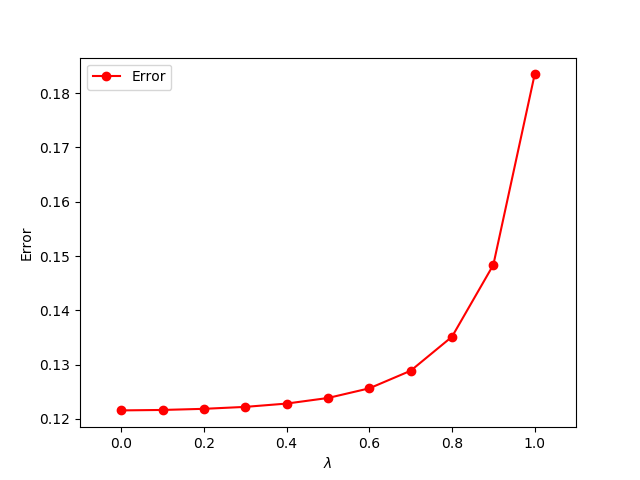
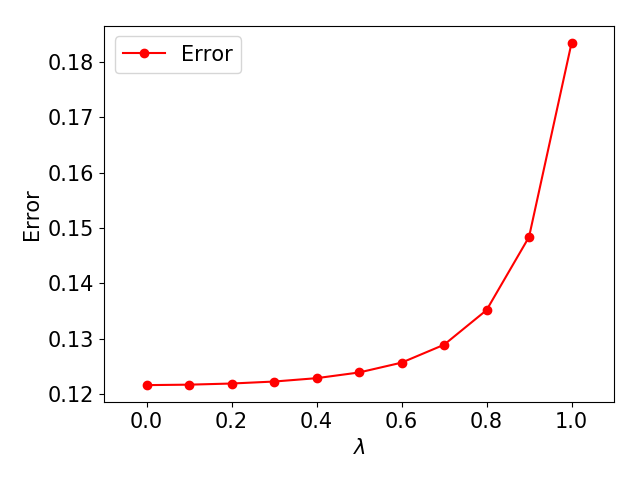
update code

diff --git a/run_p1.py b/run_p1.py
@@ -3,6 +3,11 @@ import numpy as np
 import pandas as pd
 import os
 import matplotlib.pyplot as plt
+from matplotlib import rc
+from matplotlib import rcParams
+rcParams.update({'figure.autolayout': True})
+font = {'size': 15}
+rc('font', **font)
 
 
 #test to run
@@ -13,7 +18,7 @@ def run_tdSimulator(alpha=0.01, decay=0.9995, lamb=0.0, init_w=0.5, maxepisode=1
 
     print tdSimulator.w
     print tdSimulator.rmse
-    #print tdSimulator.std
+    #print tdSimulator.ste
 
     return None
 
@@ -23,7 +28,7 @@ def run_tdAllData(data_dir="data", alpha=0.01, lamb=0.0, init_w=0.5, maxepisode=
     tdData.learn_all_data_repeat(maxepisode=maxepisode, epsilon=epsilon)
     print np.array(tdData.w)
     print tdData.rmse
-    #print tdData.std
+    #print tdData.ste
     return None
 
 def run_tdTrainsetRepeat(data_dir="data", alpha=0.01, lamb=0.0, init_w=0.5, dataset_num=0, maxepisode=30000, epsilon=1e-15):
@@ -32,7 +37,7 @@ def run_tdTrainsetRepeat(data_dir="data", alpha=0.01, lamb=0.0, init_w=0.5, data
     tdTrainset.learn_one_trainset_repeat(dataset_num=dataset_num, maxepisode=maxepisode, epsilon=epsilon)
     print np.array(tdTrainset.w)
     print tdTrainset.rmse
-    #print tdTrainset.std
+    #print tdTrainset.ste
     return None
 
 
@@ -42,24 +47,24 @@ def run_tdTrainsetRepeat_allSets(data_dir="data", alpha=0.01, lamb=0.0, init_w=0
     experiment.learn_one_trainset_repeat_allsets(maxepisode=maxepisode, epsilon=epsilon, verbose=verbose)
 
     #print experiment.rmse
-    #print experiment.std
+    #print experiment.ste
     #print np.array(experiment.w_list).mean(axis=0)
-    return experiment.rmse, experiment.std
+    return experiment.rmse, experiment.ste
 
 def run_experiment_1(data_dir="data", results_dir="results", lamb_range=np.arange(0., 1.05, 0.1)):
 
     rmse_list = []
-    std_list = []
+    ste_list = []
     for lamb in lamb_range:
         print "lamb = {}".format(lamb)
-        rmse, std = run_tdTrainsetRepeat_allSets(data_dir=data_dir, alpha=0.01, lamb=lamb)
+        rmse, ste = run_tdTrainsetRepeat_allSets(data_dir=data_dir, alpha=0.01, lamb=lamb)
         rmse_list.append(rmse)
-        std_list.append(std)
-        print "rmse = {}\nstd = {}".format(rmse, std)
+        ste_list.append(ste)
+        print "rmse = {}\nste = {}".format(rmse, ste)
     print np.array(rmse_list)
-    print np.array(std_list)
-    result = np.array([rmse_list, std_list]).T
-    result = pd.DataFrame(result, index=lamb_range, columns=["Error", "STD"])
+    print np.array(ste_list)
+    result = np.array([rmse_list, ste_list]).T
+    result = pd.DataFrame(result, index=lamb_range, columns=["Error", "STE"])
     if not os.path.exists(results_dir):
         os.makedirs(results_dir)
     result.to_csv(os.path.join(results_dir, "experiment1.csv"), header=True, index=True)
@@ -74,7 +79,7 @@ def plot_experiment_1(results_dir, name):
     fig_file = os.path.join(results_dir, "{}.png".format(name))
     df = pd.read_csv(csv_file, header=0, index_col=0)
     print df
-    #plt.errorbar(df.index, 'Error', yerr='STD', data=df)
+    #plt.errorbar(df.index, 'Error', yerr='STE', data=df)
     #plt.show()
     ax = df[["Error"]].plot(style=["ro-"])
     ax.set_xlim(-0.1, 1.1)
@@ -89,9 +94,9 @@ def run_tdTrainset(data_dir="data", alpha=0.01, dataset_num=0, lamb=0.0, init_w=
     experiment.learn_one_trainset(dataset_num=dataset_num, verbose=verbose)
 
     #print experiment.rmse
-    #print experiment.std
+    #print experiment.ste
     #print np.array(experiment.w_list).mean(axis=0)
-    return experiment.rmse, experiment.std
+    return experiment.rmse, experiment.ste
 
 def run_tdTrainset_allSets(data_dir="data", alpha=0.01, lamb=0.0, init_w=0.5, verbose=False):
     experiment = tdLearner_from_data(alpha=alpha, lamb=lamb, init_w=init_w)
@@ -99,9 +104,9 @@ def run_tdTrainset_allSets(data_dir="data", alpha=0.01, lamb=0.0, init_w=0.5, ve
     experiment.learn_one_trainset_allsets(verbose=verbose)
 
     #print experiment.rmse
-    #print experiment.std
+    #print experiment.ste
     #print np.array(experiment.w_list).mean(axis=0)
-    return experiment.rmse, experiment.std
+    return experiment.rmse, experiment.ste
     
 
 
@@ -115,7 +120,7 @@ def run_experiment_2(data_dir="data", results_dir="results", alpha_range = np.ar
             experiment.read_data(data_dir)
             experiment.learn_one_trainset_allsets(verbose=verbose)
             #print np.array(experiment.w_list).mean(axis=0)
-            #print experiment.rmse, experiment.std
+            #print experiment.rmse, experiment.ste
             result[r"$\lambda$={}".format(lamb)].append(experiment.rmse)
 
     result = pd.DataFrame(result)
@@ -136,7 +141,7 @@ def plot_experiment_2(results_dir, name):
 
     ax = df.plot(style=["ro-", "bs-", "g^-", "yv-"])
     ax.set_xlim(-0.04, 0.65)
-    ax.set_ylim(0, 1.4)
+    ax.set_ylim(0, 0.8)
     ax.set_ylabel("Error")
     ax.set_xlabel(r"$\alpha$")
     #plt.show()
@@ -159,7 +164,7 @@ def run_experiment_3(data_dir="data", results_dir="results", alpha_range = np.ar
             experiment.read_data(data_dir)
             experiment.learn_one_trainset_allsets(verbose=verbose)
             #print np.array(experiment.w_list).mean(axis=0)
-            #print experiment.rmse, experiment.std
+            #print experiment.rmse, experiment.ste
             result[lamb].append(experiment.rmse)
 
     result = pd.DataFrame(result)
@@ -182,7 +187,7 @@ def plot_experiment_3(results_dir, name):
     print df
     df.columns = ["Error"]
     print df
-    #plt.errorbar(df.index, 'Error', yerr='STD', data=df)
+    #plt.errorbar(df.index, 'Error', yerr='ste', data=df)
     #plt.show()
     ax = df.plot(style=["ro-"])
     ax.set_xlim(-0.05, 1.05)
@@ -192,45 +197,54 @@ def plot_experiment_3(results_dir, name):
     plt.savefig(fig_file)
 
 
+
+def tests():
+    #test1: run TD(lamb) with game simulator until convergence
+    run_tdSimulator(alpha=0.1, decay=0.999, lamb=0.0, init_w=0.5, maxepisode=100000, epsilon=1e-15)
+
+    #test2: run TD(lamb) with all generated data (100x10 sequences) repeatedly until convergence
+    run_tdAllData(data_dir="data", alpha=0.01, lamb=0.2, init_w=0.5, maxepisode=100, epsilon=1e-5)
+
+    #test3: run TD(lamb) with a particular dataset repeatedly until convergence
+    run_tdTrainsetRepeat(data_dir="data", alpha=0.55, lamb=0.0, init_w=0.5, dataset_num=78, maxepisode=100000, epsilon=1e-15)
+
+    #test4: run TD(lamb) with a particular dataset once
+    rmse, ste = run_tdTrainset(data_dir="data", alpha=0.55, dataset_num=78, lamb=0.0, init_w=0.5, verbose=True)
+    print "rmse = {}".format(rmse)
+
+    #test5: run TD(lamb) with all dataset once then average
+    rmse, ste = run_tdTrainset_allSets(data_dir="data", alpha=0.55, lamb=0.0, init_w=0.5, verbose=True)
+
+    #test6: run TD(lamb) with all dataset repeatedly until convergence, then average
+    rmse, ste = run_tdTrainsetRepeat_allSets(data_dir="data", alpha=0.01, lamb=0.0, init_w=0.5, maxepisode=30000, epsilon=1e-15, verbose=True)
+    print "rmse = {}\nste = {}".format(rmse, ste)
+
+
+
 if __name__ == '__main__':
     
-    data_dir = "data_0"
-    results_dir = "results_0"
+    data_dir = "data"
+    results_dir = "results"
 
     #generate data from simulation
-    game = data_gen(game=randomwalk(num_states=7), num_sets=100, trainset_size=10)
-    game.generate_data()
-    game.save_data(data_dir=data_dir)
+    #game = data_gen(game=randomwalk(num_states=7), num_sets=100, trainset_size=10)
+    #game.generate_data()
+    #game.save_data(data_dir=data_dir)
 
-    #test1
-    #run_tdSimulator(alpha=0.1, decay=0.999, lamb=0.0, init_w=0.5, maxepisode=100000, epsilon=1e-15)
+    #run some tests
+    #tests()
 
-    #test2 
-    #run_tdAllData(data_dir="data", alpha=0.01, lamb=0.2, init_w=0.5, maxepisode=100, epsilon=1e-5)
-
-    #test3
-    #run_tdTrainsetRepeat(data_dir="data", alpha=0.55, lamb=0.0, init_w=0.5, dataset_num=78, maxepisode=100000, epsilon=1e-15)
-
-    #test
-    #rmse, std = run_tdTrainset(data_dir="data", alpha=0.55, dataset_num=78, lamb=0.0, init_w=0.5, verbose=True)
-    #print "rmse = {}".format(rmse)
-
-    #test
-    #rmse, std = run_tdTrainset_allSets(data_dir="data", alpha=0.55, lamb=0.0, init_w=0.5, verbose=True)
-
-    #test4
-    #rmse, std = run_tdTrainsetRepeat_allSets(data_dir="data", alpha=0.01, lamb=0.0, init_w=0.5, maxepisode=30000, epsilon=1e-15, verbose=True)
-    #print "rmse = {}\nstd = {}".format(rmse, std)
+    
 
 
     #experiment 1
     #run_experiment_1(data_dir=data_dir, results_dir=results_dir)
-    #plot_experiment_1(results_dir=results_dir, name="experiment1")
+    plot_experiment_1(results_dir=results_dir, name="experiment1")
 
     #experiment 2
-    run_experiment_2(data_dir=data_dir, results_dir=results_dir)
+    #run_experiment_2(data_dir=data_dir, results_dir=results_dir)
     plot_experiment_2(results_dir=results_dir, name="experiment2")
 
     #experiment 3
     #run_experiment_3(data_dir=data_dir, results_dir=results_dir)
-    #plot_experiment_3(results_dir=results_dir, name="experiment3_2")
+    plot_experiment_3(results_dir=results_dir, name="experiment3_2")

diff --git a/p1.py b/p1.py
@@ -138,10 +138,10 @@ class tdLearner_from_data(object):
             self.init_w = np.array([0.]+[init_w]*(num_states-2)+[1.])
         self.w_list = []
         self.rmse = 0
-        self.std = 0
+        self.ste = 0
         self.w = self.init_w.copy()
         self.rmse_list = []
-        self.std_list = []
+        #self.std_list = []
 
 
     def read_data(self, data_dir="data"):
@@ -351,12 +351,12 @@ class tdLearner_from_data(object):
             self.w_list.append(self.w)
             self.rmse_list.append(self.rmse)
         self.rmse = np.mean(self.rmse_list)
-        self.std = np.std(self.rmse_list)
+        self.ste = np.std(self.rmse_list) / np.sqrt(len(self.rmse_list))
 
         #self.findMeanRMSE()
 
     def learn_one_trainset(self, dataset_num=0, verbose=False):
-        #delta_w accumulates through one iteration of a sequence
+        #delta_w accumulates through one iteration of all steps in a sequence
         #w update at the end of one iteration of a sequence
         if verbose: print "running dataset_{}".format(dataset_num)
         w = self.init_w.copy()
@@ -393,7 +393,7 @@ class tdLearner_from_data(object):
             self.w_list.append(self.w)
             self.rmse_list.append(self.rmse)
         self.rmse = np.mean(self.rmse_list)
-        self.std = np.std(self.rmse_list)
+        self.ste = np.std(self.rmse_list) / np.sqrt(len(self.rmse_list))
         if verbose: print "alpha = {}, lamb = {}: rmse = {}".format(self.alpha, self.lamb, self.rmse)
         #self.findMeanRMSE
         #print self.rmse
